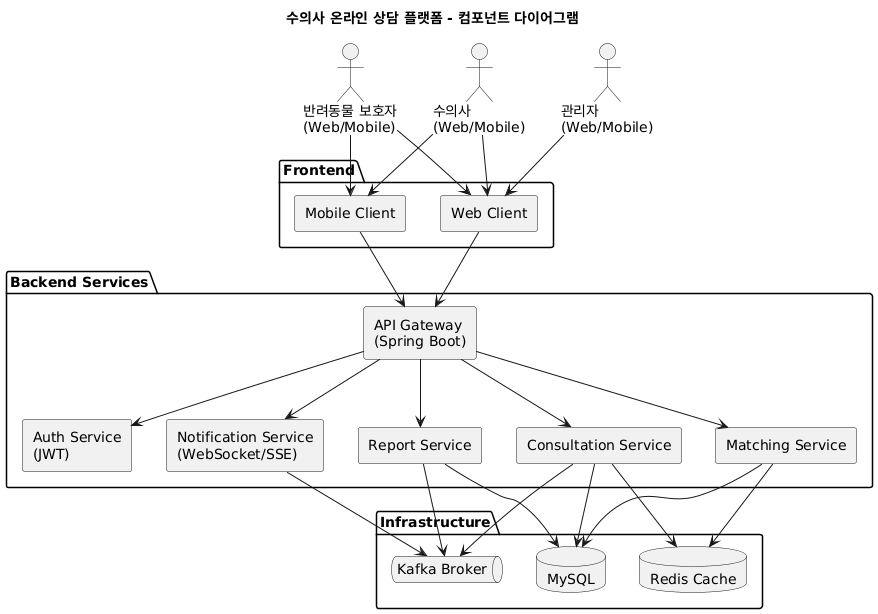
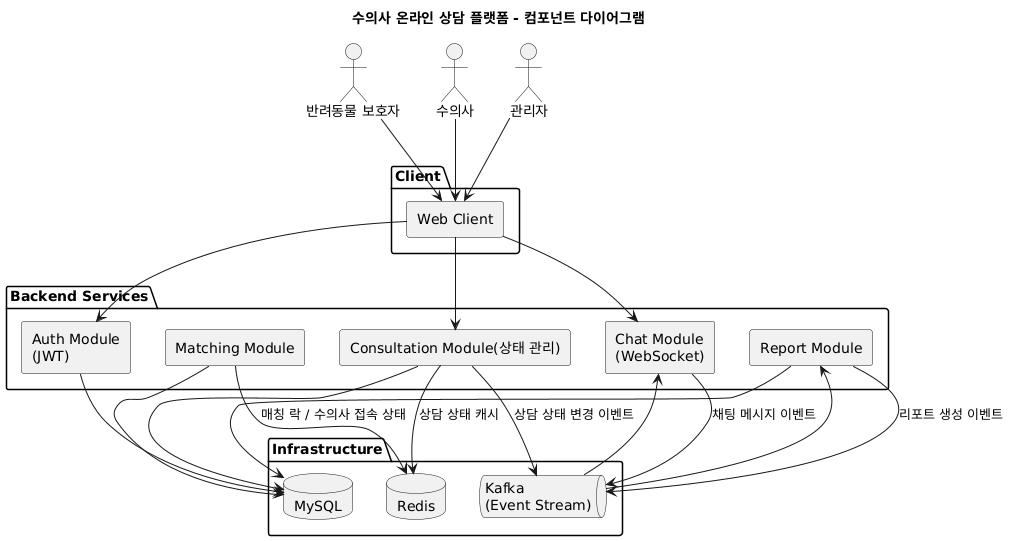
doc: 문서 수정

diff --git a/document/1.요구사항 명세서.md b/document/1.요구사항 명세서.md
@@ -34,3 +34,48 @@
 |----------|--------------|
 | F-A-01 | 관리자는 수의사 자격을 검증하고 승인할 수 있어야 한다. |
 | F-A-02 | 관리자는 상담 카테고리 및 태그를 관리할 수 있어야 한다. |
+
+
+## 1차 요구사항
+- 보호자 ↔ 수의사 간 비대면 상담
+
+### 보호자(User)
+| 요구사항 ID | 요구사항 내용                                     |
+|---------|---------------------------------------------|
+| F-U-01  | 보호자는 반려동물 프로필을 등록·수정·삭제할 수 있어야 한다.          |
+| F-U-02  | 보호자는 상담을 진행할 수 있는 수의사 리스트를 검색할 수 있어야 한다.    |
+| F-U-03  | 보호자는 상담을 진행할 수 있는 수의사의 기본 정보를 조회할 수 있어야 한다. |
+| F-U-04  | 보호자는 증상 및 카테고리를 입력하여 상담을 요청할 수 있어야 한다.      |
+| F-U-05  | 보호자는 수의사와 실시간 채팅 상담을 진행할 수 있어야 한다.          |
+| F-U-06  | 보호자는 상담 종료를 요청할 수 있어야 한다.                   |
+
+### 수의사(Vet)
+| 요구사항 ID | 요구사항 내용 |
+|---------|--------------|
+| F-V-01  | 수의사는 매칭된 상담 요청을 수신할 수 있어야 한다. |
+| F-V-02  | 수의사는 보호자와 실시간 채팅 상담을 진행할 수 있어야 한다. |
+| F-V-03  | 수의사는 상담을 종료 처리할 수 있어야 한다. |
+
+## 2차 요구사항
+
+### 보호자(User)
+| 요구사항 ID | 요구사항 내용                                     |
+|--------|---------------------------------------------|
+| F-U-07 | 보호자는 회원가입 및 로그인을 할 수 있어야 한다.         |
+| F-U-08 | 보호자는 반려동물 프로필을 수정·삭제할 수 있어야 한다.   |
+| F-U-09 | 보호자는 상담 요청 시 카테고리를 선택할 수 있어야 한다. |
+| F-U-00 | 보호자는 자신의 상담 이력을 조회할 수 있어야 한다.           |
+
+### 수의사(Vet)
+| 요구사항 ID | 요구사항 내용 |
+|---------|--------------|
+| F-V-04  | 수의사는 자격 정보를 등록할 수 있어야 한다. |
+| F-V-05  | 수의사는 상담 종료 후 상담 리포트를 작성할 수 있어야 한다. |
+| F-V-06  | 수의사는 자신의 상담 이력을 조회할 수 있어야 한다. |
+
+### 관리자(Admin)
+
+| 요구사항 ID | 요구사항 내용 |
+|----------|--------------|
+| F-A-01 | 관리자는 수의사 자격을 검증하고 승인할 수 있어야 한다. |
+| F-A-02 | 관리자는 상담 카테고리 및 태그를 관리할 수 있어야 한다. |

diff --git a/document/2.기능정의서.md b/document/2.기능정의서.md
@@ -115,3 +115,37 @@
 - 수의사가 상담 요청을 수락하지 않거나 응답하지 않는 경우, 상담 요청은 재매칭되거나 CANCELLED 처리될 수 있다.
 - 상담 진행 중 비정상 종료가 발생한 경우, 상담 상태는 시스템 정책에 따라 종료 또는 취소 처리된다.
 
+## 기술 스택
+
+| 구분         | 기술                         |
+|------------|----------------------------|
+| Language   | Java 21                    |
+| Framework  | Spring Boot 3             |
+| API        | Spring Web (RESTful API)   |
+| ORM        | Spring Data JPA (Hibernate) |
+| Build Tool | Gradle                     |
+| DBMS       | MySQL 8                     |
+
+### 실시간 상담 (Chat)
+| 구분        | 기술               |
+| --------- | ---------------- |
+| 통신 방식     | WebSocket        |
+| Framework | Spring WebSocket |
+
+  - 보호자와 수의사 간 실시간 채팅 상담을 제공
+
+### 메시지 처리 / 비동기 처리
+| 구분             | 기술           |
+| -------------- | ------------ |
+| Message Broker | Apache Kafka |
+| Client         | Spring Kafka |
+ - 채팅 메시지 저장 및 이벤트 처리를 비동기 방식으로 수행
+ - 상담 상태 변경, 상담 종료 등의 이벤트를 분리하여 처리
+
+### 상태 관리 / 캐시
+| 구분              | 기술                |
+| --------------- | ----------------- |
+| In-memory Store | Redis             |
+| Client          | Spring Data Redis |
+  - 수의사 접속 상태 관리
+  - 상담 상태 캐시 등
